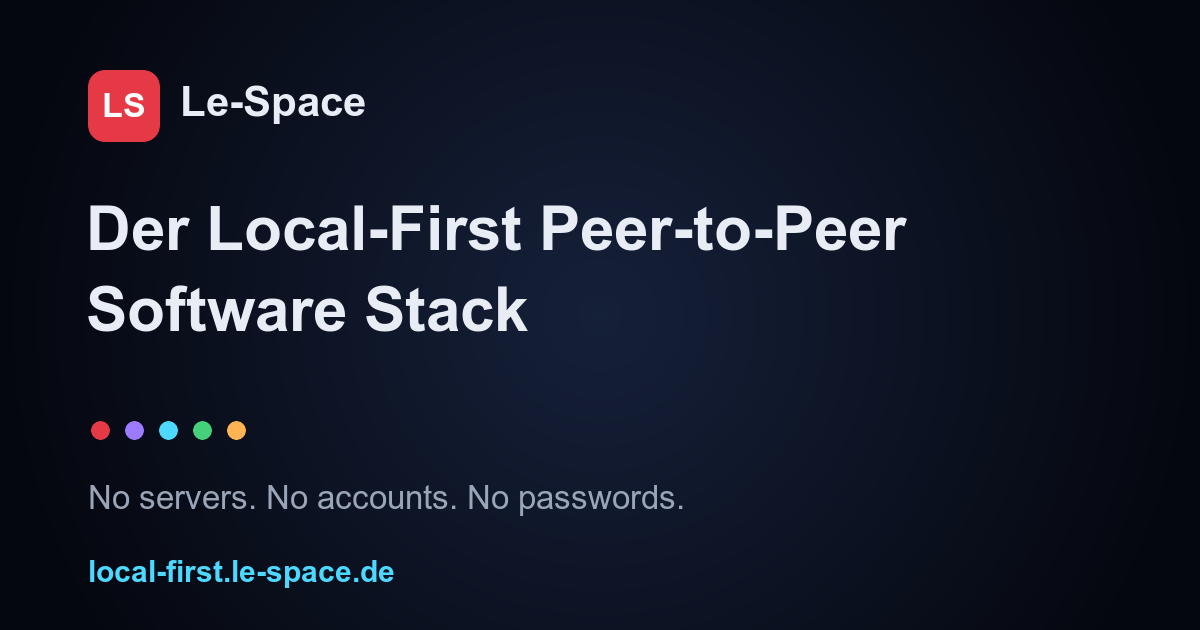
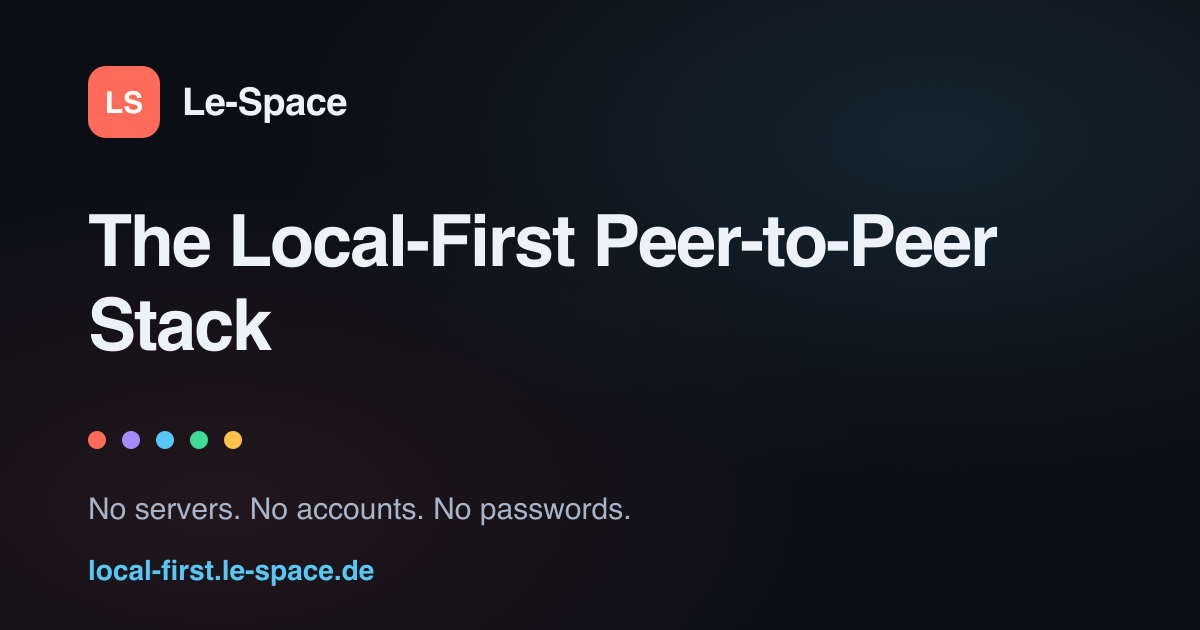
Social: serve English metadata and a non-stale OG card
Discord (and every other crawler) reads the static meta tags and never
runs the SPA, so the runtime DE/EN detection has no bearing on the embed
— the hardcoded German title was shown to everyone, while <html lang> and
the descriptions were already English. Align the titles with en.json
hero.title on both sites, and translate le-space's description tags,
which were German too.

Separately, the local-first og:image had the claim baked into a hand-made
PNG in its pre-560307f wording ("…Peer-to-Peer Software Stack"). The meta
text was updated back then, the image was not. Regenerate it from a
committed SVG plus a render script (rsvg-convert/inkscape/magick, no npm
dependency) so the claim cannot drift silently again.

le-space's og-le-image.png carries no body copy and is left as is.

Note: Discord caches embeds, so an already-posted link keeps showing the
old card for a while.

diff --git a/sites/le-space/index.html b/sites/le-space/index.html
@@ -10,18 +10,18 @@
     <link rel="manifest" href="/site.webmanifest" />
     <meta name="theme-color" content="#0B0E15" />
     <meta name="viewport" content="width=device-width, initial-scale=1.0" />
-    <title>Le-Space — Der Local-First Peer-to-Peer Stack</title>
-    <meta name="description" content="Le-Space — der Local-First Peer-to-Peer Stack. No servers. No accounts. No passwords." />
+    <title>Le-Space — The Local-First Peer-to-Peer Stack</title>
+    <meta name="description" content="Le-Space — the local-first peer-to-peer stack. No servers. No accounts. No passwords." />
     <meta property="og:type" content="website" />
-    <meta property="og:title" content="Le-Space — Der Local-First Peer-to-Peer Stack" />
-    <meta property="og:description" content="Der Local-First Peer-to-Peer Stack. No servers. No accounts. No passwords." />
+    <meta property="og:title" content="Le-Space — The Local-First Peer-to-Peer Stack" />
+    <meta property="og:description" content="The local-first peer-to-peer stack. No servers. No accounts. No passwords." />
     <meta property="og:url" content="https://le-space.de" />
     <meta property="og:image" content="https://le-space.de/og-le-image.png" />
     <meta property="og:image:width" content="1200" />
     <meta property="og:image:height" content="630" />
     <meta name="twitter:card" content="summary_large_image" />
-    <meta name="twitter:title" content="Le-Space — Der Local-First Peer-to-Peer Stack" />
-    <meta name="twitter:description" content="Der Local-First Peer-to-Peer Stack." />
+    <meta name="twitter:title" content="Le-Space — The Local-First Peer-to-Peer Stack" />
+    <meta name="twitter:description" content="The local-first peer-to-peer stack." />
     <meta name="twitter:image" content="https://le-space.de/og-le-image.png" />
   </head>
   <body>

diff --git a/sites/local-first/index.html b/sites/local-first/index.html
@@ -4,17 +4,17 @@
     <meta charset="UTF-8" />
     <link rel="icon" type="image/svg+xml" href="/favicon.svg" />
     <meta name="viewport" content="width=device-width, initial-scale=1.0" />
-    <title>Le-Space — Der Local-First Peer-to-Peer Stack</title>
+    <title>Le-Space — The Local-First Peer-to-Peer Stack</title>
     <meta name="description" content="Software you can keep: local-first peer-to-peer applications with no servers, no accounts, no passwords. The Le-Space open-source stack." />
     <meta property="og:type" content="website" />
-    <meta property="og:title" content="Le-Space — Der Local-First Peer-to-Peer Stack" />
+    <meta property="og:title" content="Le-Space — The Local-First Peer-to-Peer Stack" />
     <meta property="og:description" content="No servers. No accounts. No passwords. The open-source local-first stack." />
     <meta property="og:url" content="https://local-first.le-space.de" />
     <meta property="og:image" content="https://local-first.le-space.de/og-image.png" />
     <meta property="og:image:width" content="1200" />
     <meta property="og:image:height" content="630" />
     <meta name="twitter:card" content="summary_large_image" />
-    <meta name="twitter:title" content="Le-Space — Der Local-First Peer-to-Peer Stack" />
+    <meta name="twitter:title" content="Le-Space — The Local-First Peer-to-Peer Stack" />
     <meta name="twitter:description" content="No servers. No accounts. No passwords. The open-source local-first stack." />
     <meta name="twitter:image" content="https://local-first.le-space.de/og-image.png" />
   </head>
